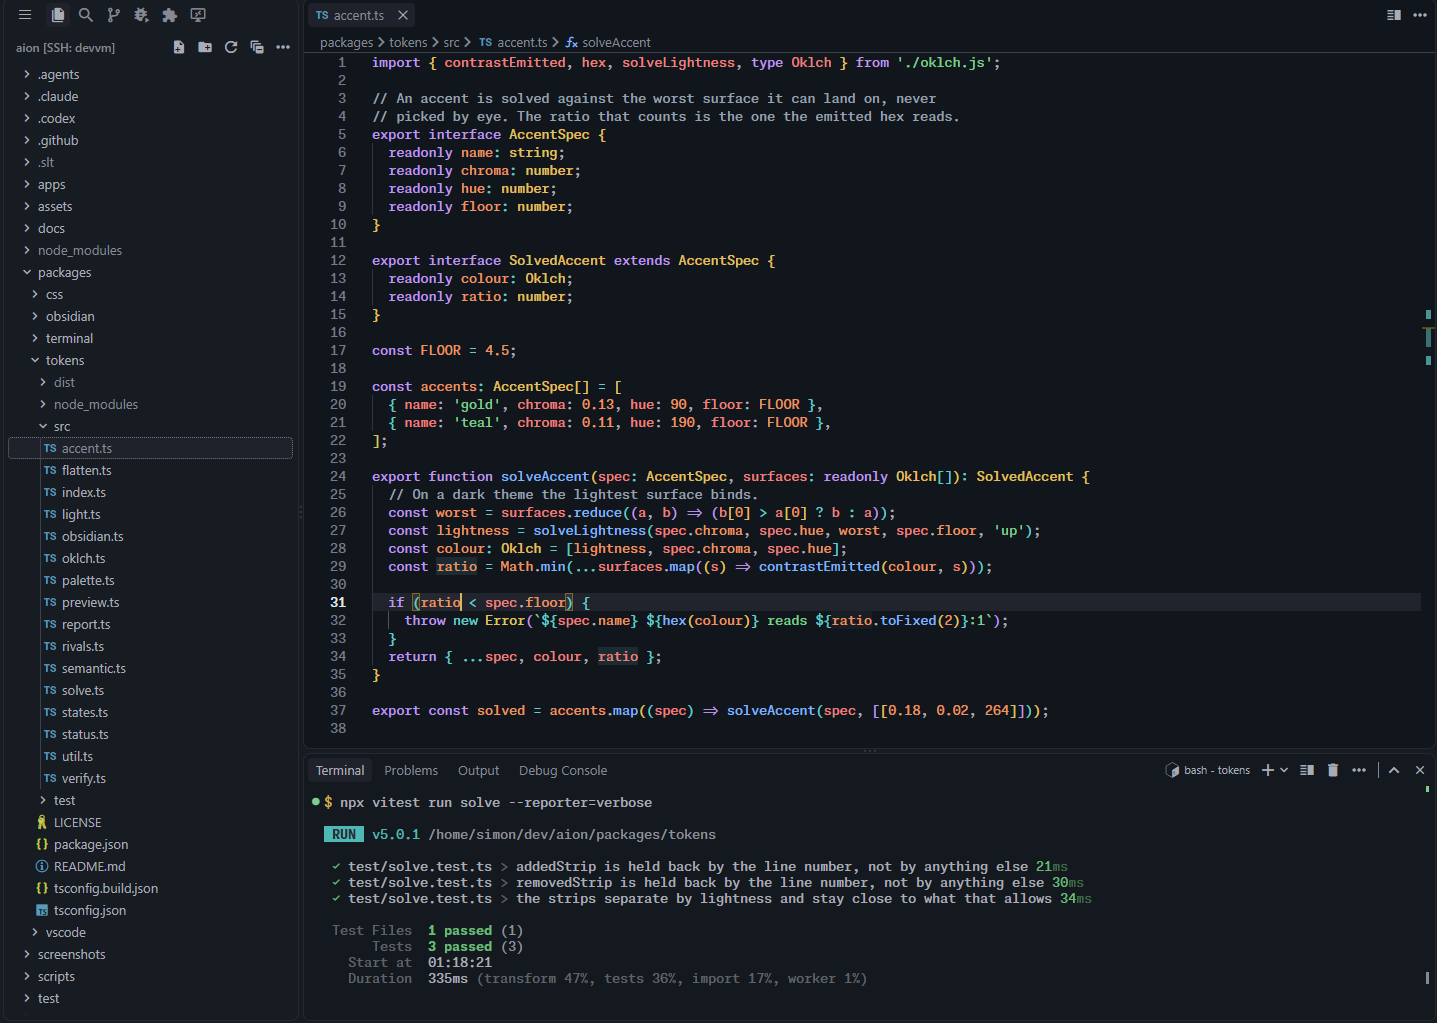
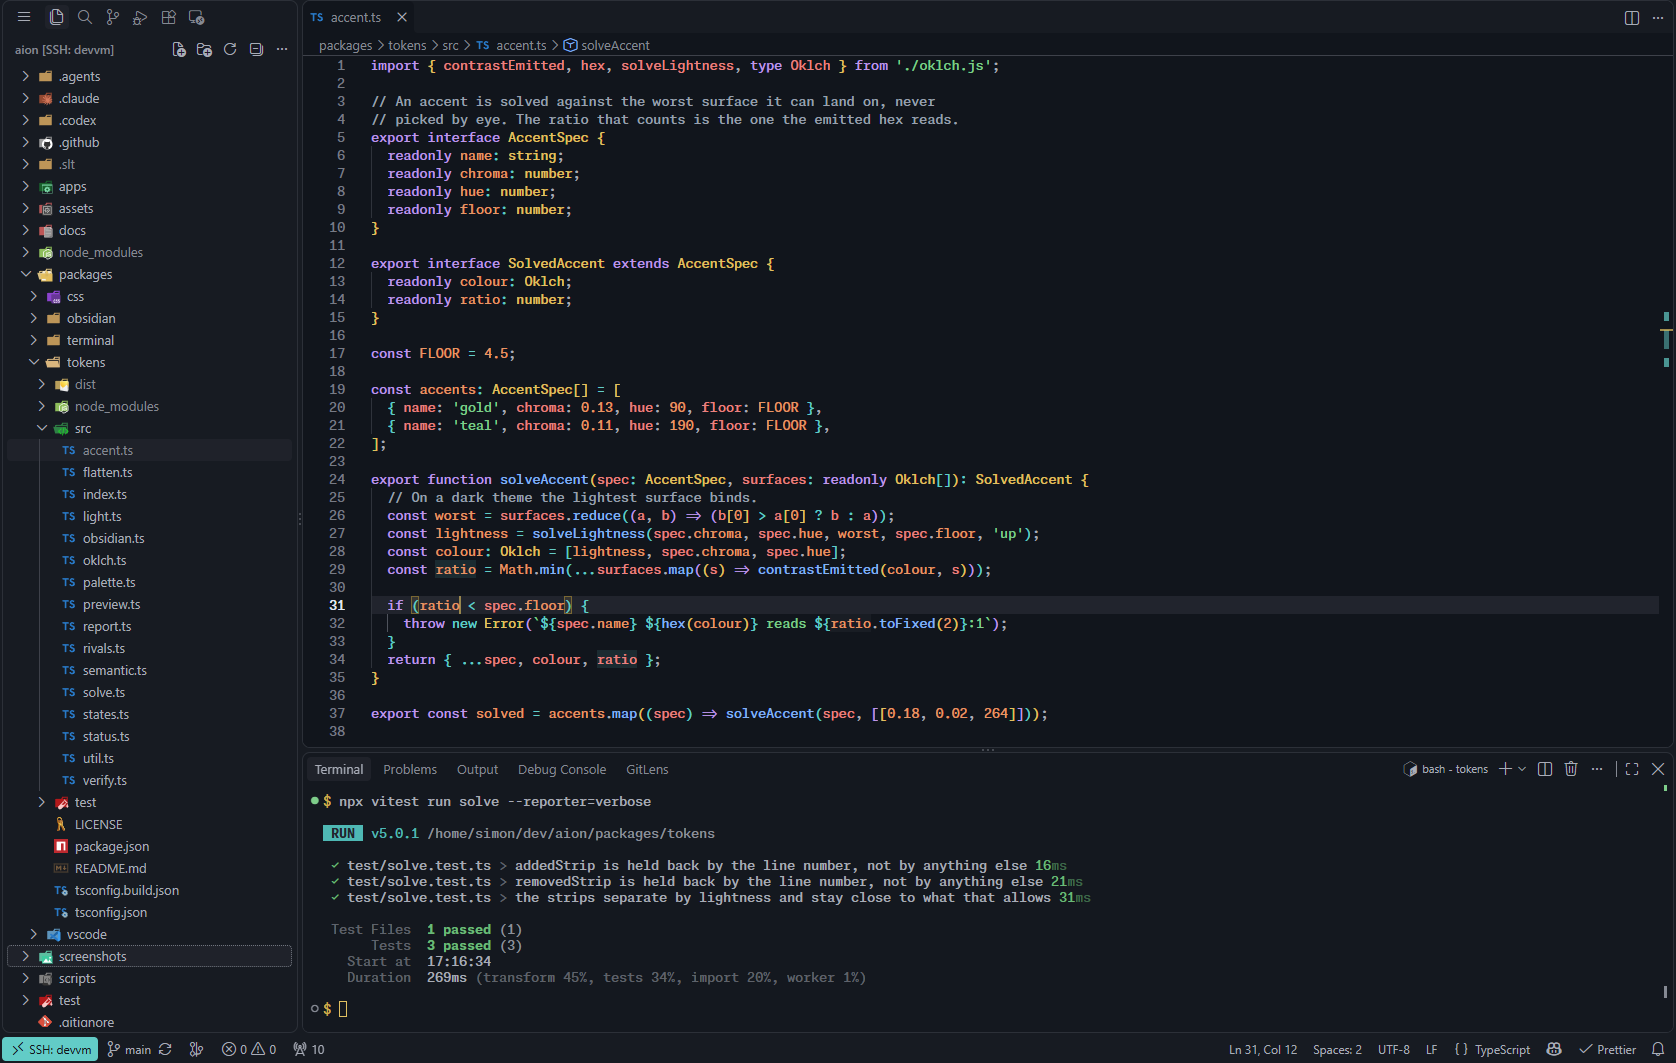
Show the Light screenshot to readers on a light GitHub theme
Claude-Session: https://claude.ai/code/session_01DePnWr6S8yEnUkk87NbcvT

diff --git a/README.md b/README.md
@@ -24,7 +24,10 @@
 </p>
 
 <p align="center">
-  <img src="screenshots/vscode-dark.png" alt="Aion Dark in VS Code: a TypeScript file in the editor, the Explorer on the left and a passing test run in the terminal panel" width="880">
+  <picture>
+    <source media="(prefers-color-scheme: light)" srcset="screenshots/vscode-light.png">
+    <img src="screenshots/vscode-dark.png" alt="Aion in VS Code: a TypeScript file in the editor, the Explorer on the left and a passing test run in the terminal panel" width="880">
+  </picture>
 </p>
 
 ```bash
